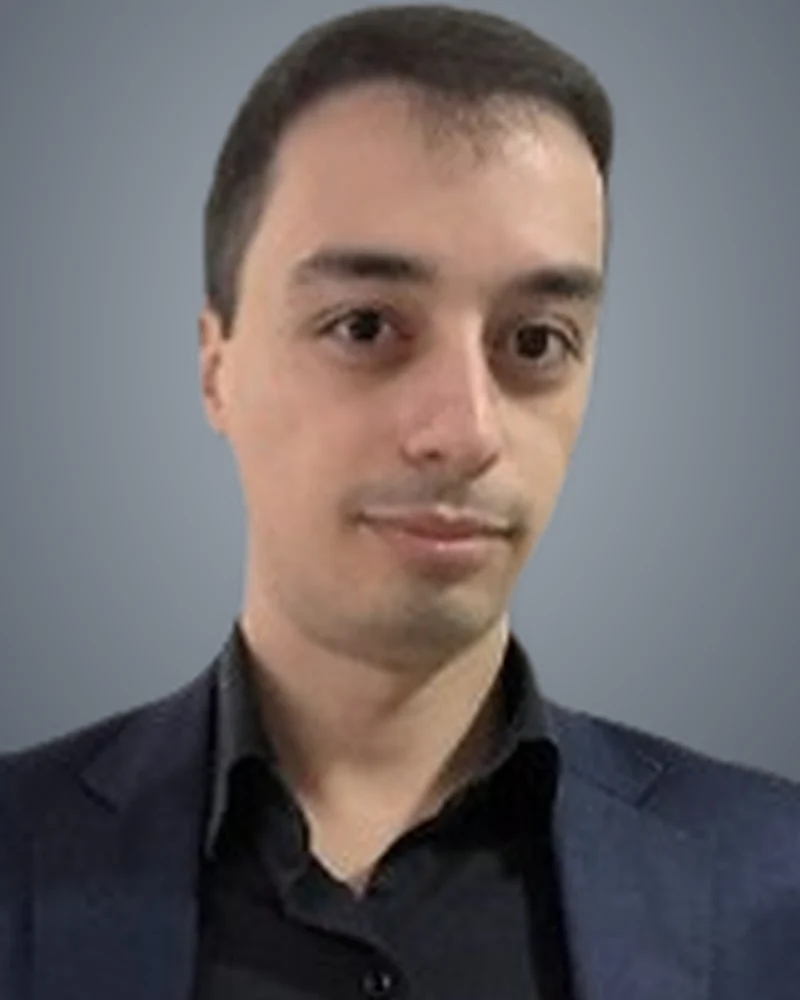
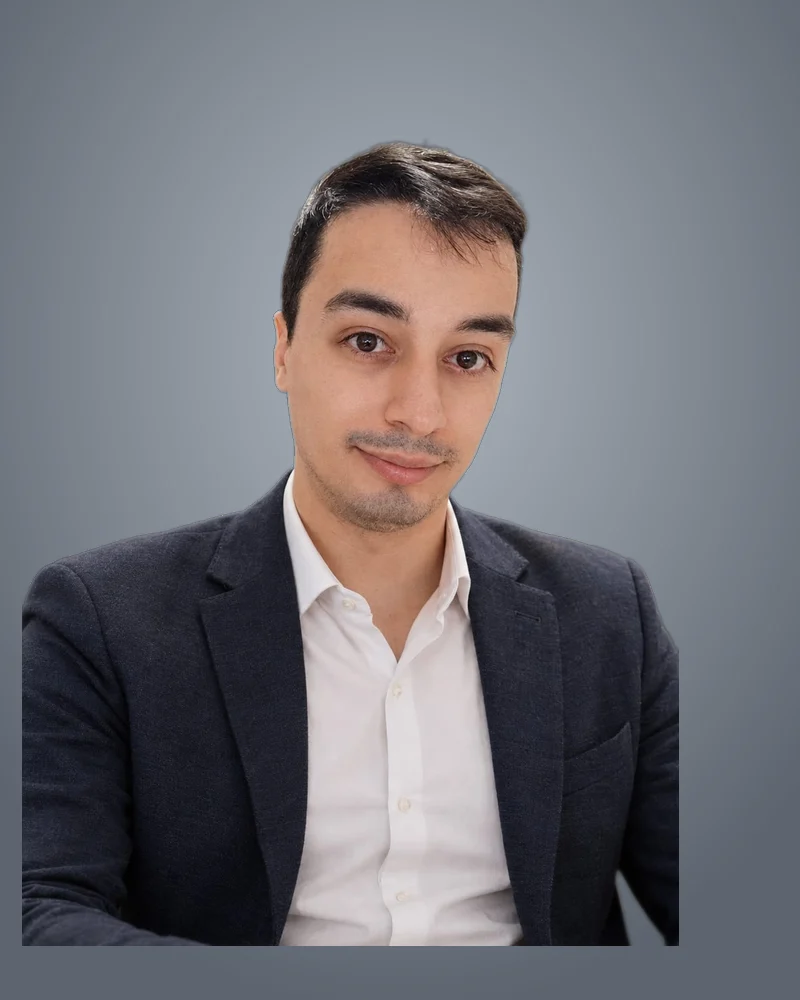
Quem faz: sócios e parceiros separados, com fotos reais
- Samuel e Matheus com fotos reais, recortadas sobre o mesmo fundo neutro
- Nova linha de parceiros: Nayara (videomaker e filmmaker) e Luna (social media)
- Malaquias segue com foto provisória até chegar a real

Claude-Session: https://claude.ai/code/session_014Dgz7gRmNY3mzUsoTWJW3D

diff --git a/src/components/site/QuemFaz.tsx b/src/components/site/QuemFaz.tsx
@@ -1,6 +1,6 @@
 import Image from "next/image";
 
-import { fundos, quemFaz, type Pessoa } from "@/content/site";
+import { fundos, quemFaz, type Parceiro, type Pessoa } from "@/content/site";
 import { Provisorio } from "./Provisorio";
 import { VideoFundo } from "./VideoFundo";
 
@@ -42,6 +42,26 @@ function Retrato({ pessoa }: { pessoa: Pessoa }) {
   );
 }
 
+function RetratoParceiro({ parceiro }: { parceiro: Parceiro }) {
+  return (
+    <figure className="sa-pessoa sa-pessoa--parceiro relative m-0">
+      <div className="sa-pessoa__foto">
+        <Image
+          src={parceiro.foto}
+          alt={quemFaz.altFoto(parceiro.nome)}
+          width={800}
+          height={1000}
+          sizes="(min-width: 1280px) 280px, (min-width: 768px) 22vw, 50vw"
+        />
+      </div>
+      <figcaption className="sa-pessoa__legenda sa-vidro">
+        <span className="titulo-3 text-marca-giz">{parceiro.nome}</span>
+        <span className="pequeno text-areia">{parceiro.funcao}</span>
+      </figcaption>
+    </figure>
+  );
+}
+
 export function QuemFaz() {
   return (
     <section id="quem-faz" data-theme="dark" aria-labelledby="quem-faz-titulo" className="sa-grao sa-secao sa-cafe">
@@ -53,13 +73,27 @@ export function QuemFaz() {
           </h2>
           <p className="lead mt-6 text-areia">{quemFaz.abertura}</p>
         </div>
-        <ul className="mt-12 grid list-none gap-12 p-0 md:grid-cols-3 md:gap-6">
+        <h3 className="rotulo mt-12 text-areia">{quemFaz.rotuloSocios}</h3>
+        <ul className="mt-4 grid list-none gap-12 p-0 md:grid-cols-3 md:gap-6">
           {quemFaz.pessoas.map((pessoa) => (
             <li key={pessoa.id} className="sa-revela">
               <Retrato pessoa={pessoa} />
             </li>
           ))}
         </ul>
+        <div className="sa-parceiros">
+          <div>
+            <h3 className="rotulo text-areia">{quemFaz.rotuloParceiros}</h3>
+            <p className="corpo mt-2 text-areia">{quemFaz.aberturaParceiros}</p>
+          </div>
+          <ul className="sa-parceiros__lista">
+            {quemFaz.parceiros.map((parceiro) => (
+              <li key={parceiro.id} className="sa-revela">
+                <RetratoParceiro parceiro={parceiro} />
+              </li>
+            ))}
+          </ul>
+        </div>
       </div>
     </section>
   );

diff --git a/src/app/globals.css b/src/app/globals.css
@@ -2211,3 +2211,53 @@
     }
   }
 }
+
+/* Parceiros: menores que os sócios, ao lado de um texto curto. */
+@layer components {
+  .sa-parceiros {
+    display: grid;
+    gap: var(--space-6);
+    margin-top: var(--space-16);
+    padding-top: var(--space-8);
+    border-top: 1px solid color-mix(in srgb, var(--marca-giz) 18%, transparent);
+  }
+  .sa-parceiros__lista {
+    display: grid;
+    grid-template-columns: repeat(2, 1fr);
+    gap: var(--space-4);
+    margin: 0;
+    padding: 0;
+    list-style: none;
+  }
+  .sa-parceiros__lista {
+    max-width: 560px;
+  }
+  /* Legenda do parceiro fica embaixo da foto, sem cobrir o rosto. */
+  .sa-pessoa--parceiro .sa-pessoa__legenda {
+    position: static;
+    gap: 0;
+    margin-top: var(--space-2);
+    padding: 0;
+    border: 0;
+    background: none;
+    box-shadow: none;
+    -webkit-backdrop-filter: none;
+    backdrop-filter: none;
+  }
+  .sa-pessoa--parceiro .sa-pessoa__legenda::before,
+  .sa-pessoa--parceiro .sa-pessoa__legenda::after {
+    display: none;
+  }
+  .sa-pessoa--parceiro .titulo-3 {
+    font-size: 17px;
+  }
+  @media (min-width: 768px) {
+    .sa-parceiros {
+      grid-template-columns: 1fr 2fr;
+      align-items: start;
+    }
+    .sa-parceiros__lista {
+      gap: var(--space-6);
+    }
+  }
+}

diff --git a/src/content/site.ts b/src/content/site.ts
@@ -409,6 +409,15 @@ export type Pessoa = {
   foto?: string;
 };
 
+/** Parceiros: trabalham junto com a SA, mas não são sócios. */
+export type Parceiro = {
+  id: string;
+  nome: string;
+  funcao: string;
+  /** Foto 4:5 em public/socios/. */
+  foto: string;
+};
+
 export const quemFaz = {
   titulo: "Quem cuida do seu negócio.",
   abertura: "A SA é um time pequeno. Você fala com quem faz o trabalho.",
@@ -437,6 +446,13 @@ export const quemFaz = {
       foto: fotosSocios.matheus,
     },
   ] satisfies Pessoa[],
+  rotuloSocios: "Sócios",
+  rotuloParceiros: "Parceiros",
+  aberturaParceiros: "Especialistas que trabalham junto com a SA nas entregas.",
+  parceiros: [
+    { id: "nayara", nome: "Nayara", funcao: "Videomaker e filmmaker", foto: "/socios/nayara.webp" },
+    { id: "luna", nome: "Luna", funcao: "Social media", foto: "/socios/luna.webp" },
+  ] satisfies Parceiro[],
 } as const;
 
 /* ------------------------------------------------------------------ */

diff --git a/src/content/provisorios.ts b/src/content/provisorios.ts
@@ -23,11 +23,11 @@ export const logoSvg: string | undefined = undefined;
 
 /**
  * Fotos 4:5 em public/socios/. Sem foto, o componente mostra a silhueta.
- * Matheus já é a foto real. Samuel e Malaquias ainda são de banco de imagem
- * (Unsplash, licença livre), com "provisorio" no nome, até chegarem as reais.
+ * Samuel e Matheus já são fotos reais. Malaquias ainda é de banco de imagem
+ * (Unsplash, licença livre), com "provisorio" no nome, até chegar a real.
  */
 export const fotosSocios: Record<"samuel" | "malaquias" | "matheus", string | undefined> = {
-  samuel: "/socios/samuel-provisorio.webp",
+  samuel: "/socios/samuel.webp",
   malaquias: "/socios/malaquias-provisorio.webp",
   matheus: "/socios/matheus.webp",
 };

diff --git a/PENDENCIAS.md b/PENDENCIAS.md
@@ -11,7 +11,7 @@ valor provisório ou pendência que trava o lançamento.
 - [ ] 1. Número real de WhatsApp. Hoje: `5500000000000` (provisório, não pertence a ninguém). Trocar em `NEXT_PUBLIC_WHATSAPP_NUMBER`.
 - [ ] 2. CNPJ e razão social reais. Hoje: `SA Marketing, CNPJ 00.000.000/0001-00` (fictício). Trocar em `src/content/provisorios.ts`.
 - [ ] 3. Logo em SVG. Hoje o cabeçalho e o rodapé mostram "SA Marketing" em texto. Salvar em `public/logo-sa.svg` e apontar `logoSvg` em `src/content/provisorios.ts`. Os ícones (favicon e Apple) mostram "SA" provisório e também devem trocar.
-- [ ] 4. Fotos de Samuel e Malaquias, em 4:5 (a do Matheus já é real; a original veio em 217x240, mandar uma maior). Hoje: banco de imagem. Salvar em `public/socios/` e preencher `fotosSocios` em `src/content/provisorios.ts`.
+- [ ] 4. Foto do Malaquias, em 4:5 (Samuel, Matheus, Nayara e Luna já são reais). Hoje: banco de imagem. Confirmar o cargo do Malaquias (hoje CCO, diretor comercial).
 - [ ] 5. Vídeo vertical real para o hero e vídeos reais para os fundos (hero, Frentes, Quem faz: bastidor, gravação, cliente; mp4 e webm sem áudio, até 2,5 MB cada, caminhos em `fundos` no `src/content/site.ts`). Hoje são animações abstratas geradas com `ffmpeg` (ver "Origem dos vídeos provisórios" abaixo). Trocar `videoHero` em `src/content/provisorios.ts`. Ao trocar, conferir de novo o LCP no computador: um pôster com conteúdo real pode passar a ser o maior elemento da tela.
 - [ ] 6. Texto final da política de privacidade. Hoje: texto provisório curto em `/privacidade`. Trocar em `src/content/site.ts` (`privacidade`) e pôr `politicaProvisoria = false`.
 - [ ] 7. Confirmação do domínio: samarketing.co.br ou samarketing.com.br. Hoje: `https://samarketing.co.br` em `NEXT_PUBLIC_SITE_URL`.
